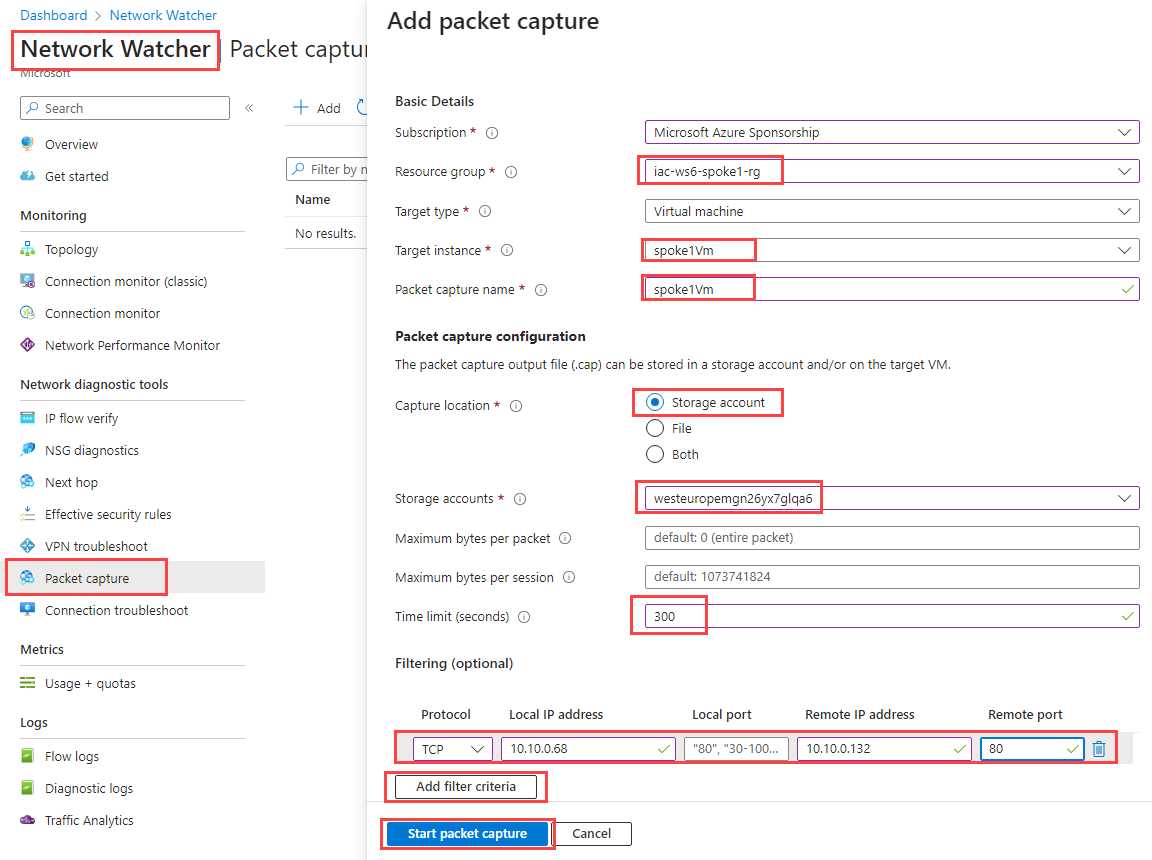
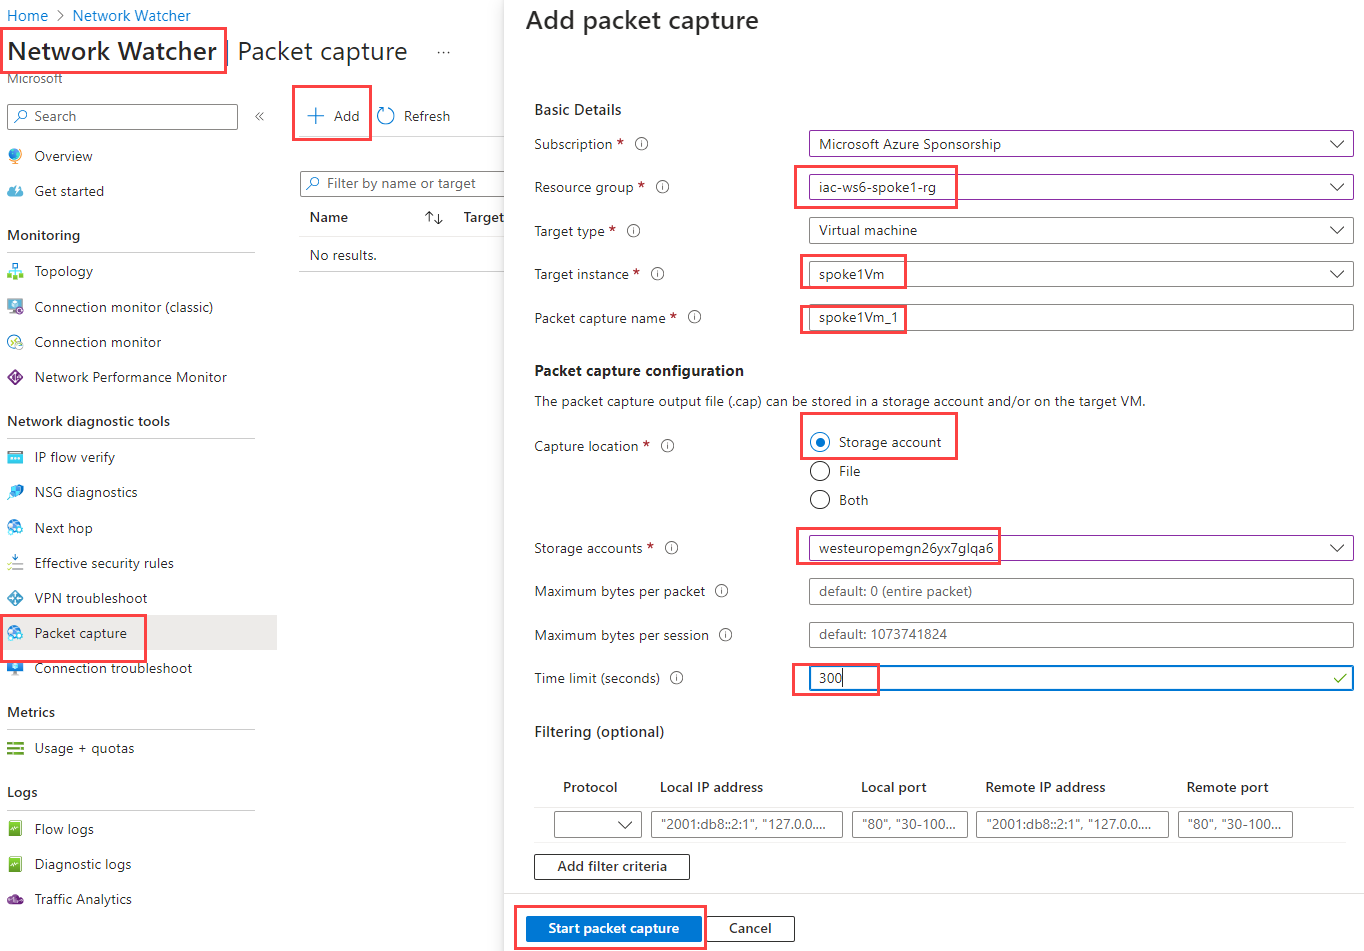
WIP

diff --git a/docs/labs/lab-05/index.md b/docs/labs/lab-05/index.md
@@ -22,7 +22,7 @@ watch -n 1 curl -s http://10.10.0.132
 
 !!! info "Note"
     A virtual machine where you want to capture packets, [should have the following outbound TCP connectivity](https://learn.microsoft.com/en-us/azure/network-watcher/network-watcher-packet-capture-manage-portal#prerequisites):
-    
+
     - 443 (HTTPS) to Azure Storage
     - 80 to 169.254.169.254
     - 8037 to 168.63.129.16
@@ -46,17 +46,7 @@ Fill in the following information:
 | Storage accounts | Choose of your storage accounts  |
 | Time limit (seconds) | 300 |
 
-At the filtering add the following filter:
-
-| Parameter | Value |
-|---|---|
-| Protocol  | `TCP` |
-| Local IP address | `10.10.0.68` |
-| Local port | Keep it empty |
-| Remote IP address | `10.10.0.132` |
-| Remote port | `80` |
-
-Click `Add filter criteria` and then click on `Start packet capture`.
+Click on `Start packet capture`.
 
 It will first deploy `AzureWatcherExtension` to the VM (if oen hasn't been deployed yet) and then start the capture session.
 
@@ -100,7 +90,6 @@ Now, let's filter packets only to traffic between `hubVm (10.10.0.68)` and `spok
 ip.addr eq 10.10.0.68 and ip.addr eq 10.10.0.132 and tcp.port eq 80
 ```	
 ![00](../../assets/images/lab-05/wireshark-2.png)
-
 
 
 ## Links
